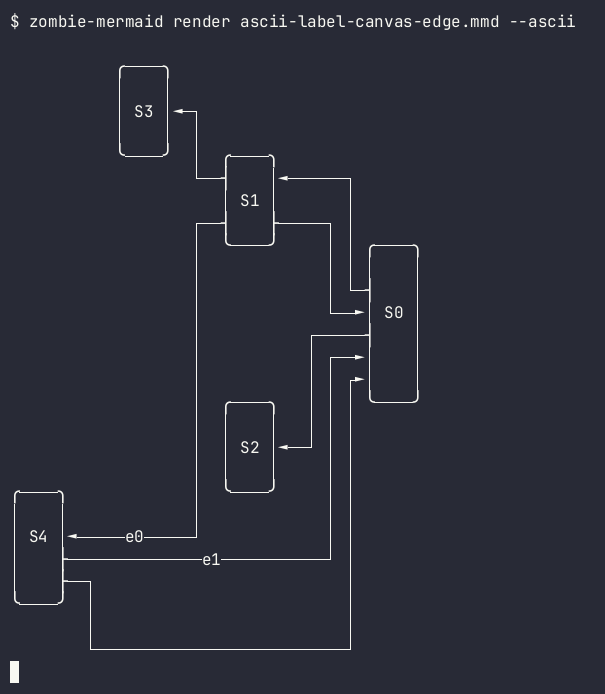
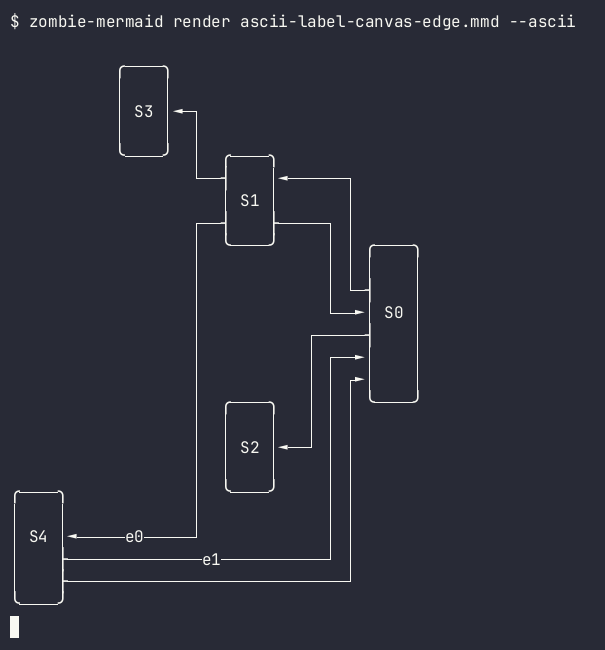
fix(ascii): hinted lanes between different rows take the first route's Z, in mermaid's label order (#2678)

diff --git a/__tests__/ascii-hinted-z-lanes-2678.test.ts b/__tests__/ascii-hinted-z-lanes-2678.test.ts
@@ -1,0 +1,85 @@
+/**
+ * #2678 (general-116): a far same-pair group whose ends sit on different rows
+ * used to push its second lane through the source's own face and round the whole
+ * diagram, so its label sat at the bottom and entered the target by a detour.
+ * Every lane now takes the hinted Z, as mermaid@12.3.0 draws it: all of
+ * fifth/sixth over the top, in the order of its ports.
+ */
+import { describe, expect, it } from 'vitest'
+import { renderMermaidASCII } from '../src/index.ts'
+
+const FAN_IN = `A --> B
+  A -->|first| C
+  B -->|second| C
+  A -->|third| D
+  C -->|fourth| D
+  B -->|fifth| D
+  B -->|sixth| D
+  A -->|seventh| D`
+
+const render = (head: string, body = FAN_IN): string[] =>
+  renderMermaidASCII(`${head}\n  ${body}`, { colorMode: 'none' }).split('\n')
+const rowOf = (lines: string[], label: string): number =>
+  lines.findIndex((l) => l.includes(label))
+
+describe('hinted Z lanes (#2678)', () => {
+  it('LR: labels read in mermaid order and sixth stays above A', () => {
+    const lines = render('flowchart LR')
+    const rows = ['fifth', 'sixth', 'fourth', 'third', 'seventh'].map((l) =>
+      rowOf(lines, l),
+    )
+    expect(rows).toEqual([...rows].sort((a, b) => a - b))
+    expect(new Set(rows).size).toBe(5)
+    // mermaid@12.3.0 has sixth over the top, next to fifth, not under A.
+    expect(rowOf(lines, 'sixth')).toBeLessThan(rowOf(lines, ' A '))
+  })
+
+  it('LR: all five edges enter D by its left face', () => {
+    const lines = render('flowchart LR')
+    expect(lines.filter((l) => /►│[ D]+│\s*$/.test(l))).toHaveLength(5)
+    expect(lines.join('\n')).not.toMatch(/▲/)
+    // No lane runs under A: the diagram ends at A's bottom edge.
+    expect(lines.findLastIndex((l) => /\S/.test(l))).toBeLessThanOrEqual(
+      lines.findLastIndex((l) => l.includes('└───┘')) + 1,
+    )
+  })
+
+  it('TD: the five edges enter D by its top face, one arrowhead each', () => {
+    const lines = render('flowchart TD')
+    // Each lane's arrowhead has a cell of its own, with a gap between.
+    expect(lines.filter((l) => /▼ ▼ ▼ ▼ ▼/.test(l))).toHaveLength(1)
+    for (const label of ['fifth', 'sixth', 'seventh'])
+      expect(lines.join('\n')).toContain(label)
+  })
+
+  it('keeps a lane group that ends on a decision as before', () => {
+    const lines = render(
+      'flowchart LR',
+      `A --> B
+  A --> C
+  B --> D{D?}
+  B -->|x| D
+  B -->|y| D
+  C --> D`,
+    )
+    for (const label of [' x ', ' y '])
+      expect(lines.filter((l) => l.includes(label))).toHaveLength(1)
+  })
+
+  it('draws the labels of a cluster exit group once each', () => {
+    const lines = render(
+      'flowchart LR',
+      `subgraph S
+    a --> b
+  end
+  b -->|one| c
+  b -->|two| c
+  S -->|three| d
+  S -->|four| d
+  c --> d`,
+    )
+    const out = lines.join('\n')
+    for (const label of ['one', 'two', 'three', 'four'])
+      expect(out.match(new RegExp(label, 'g'))).toHaveLength(1)
+  })
+})

diff --git a/packages/ascii-renderer/src/edge-routing.ts b/packages/ascii-renderer/src/edge-routing.ts
@@ -2112,6 +2112,24 @@ function crowdedDecision(graph: AsciiGraph, edge: AsciiEdge): boolean {
   )
 }
 
+/**
+ * A lane of a far same-pair group whose ends sit on different rows (columns in
+ * a vertical flow). Offset lanes measure from the source's row, so they cannot
+ * run beside the first route; such a lane takes the same hinted Z and
+ * `planJogRows` (port-offsets.ts) gives each its own bend row or column.
+ */
+function hintedZLane(graph: AsciiGraph, edge: AsciiEdge): boolean {
+  const cross = graph.config.graphDirection === 'LR' ? 'y' : 'x'
+  return (
+    edge.parallelLane !== undefined &&
+    !edge.clusterSource &&
+    // A diamond's side faces are slants: the Z's ports there are not drawn yet.
+    edge.from.shape !== 'diamond' &&
+    edge.to.shape !== 'diamond' &&
+    requireGridCoord(edge.from)[cross] !== requireGridCoord(edge.to)[cross]
+  )
+}
+
 /** The faces ELK's route leaves and enters by, as grid directions, or undefined without a hint. */
 function hintedFaces(
   graph: AsciiGraph,
@@ -2535,7 +2553,8 @@ export function determinePath(graph: AsciiGraph, edge: AsciiEdge): void {
   if (
     edge.parallelLane &&
     edge.parallelLane.index > 0 &&
-    !(edge.clusterSource && hintedFaces(graph, edge))
+    !(edge.clusterSource && hintedFaces(graph, edge)) &&
+    !(hintedZLane(graph, edge) && hintedFaces(graph, edge))
   ) {
     // A reverse-direction sibling (`B --> A` alongside `A --> B`, #629) runs
     // "backwards" relative to the graph direction, so determineStartAndEndDir
@@ -2960,7 +2979,9 @@ export function determineLabelLine(
   if (
     edge.parallelLane &&
     edge.parallelLane.index > 0 &&
-    !(edge.clusterSource && edge.hintedFaces)
+    !(edge.clusterSource && edge.hintedFaces) &&
+    // A hinted Z lane took the ordinary route, which leaves its label to this search.
+    !(edge.labelLine.length === 0 && hintedZLane(graph, edge))
   )
     return
   // Likewise a cluster-exit edge: determinePath placed its label directly

diff --git a/.changeset/ascii-hinted-z-lanes-2678.md b/.changeset/ascii-hinted-z-lanes-2678.md
@@ -1,0 +1,6 @@
+---
+'zombie-mermaid': patch
+'@zombie-mermaid/ascii-renderer': patch
+---
+
+ASCII flowchart: the lanes of a same-pair group whose ends sit on different rows (`B -->|fifth| D` and `B -->|sixth| D` with `A -->|third| D` beside them) all take the first route's Z, each on its own bend column, instead of one running under the whole diagram into the target's bottom. Labels read in mermaid@12.3.0's order and every lane enters the target's near face.
